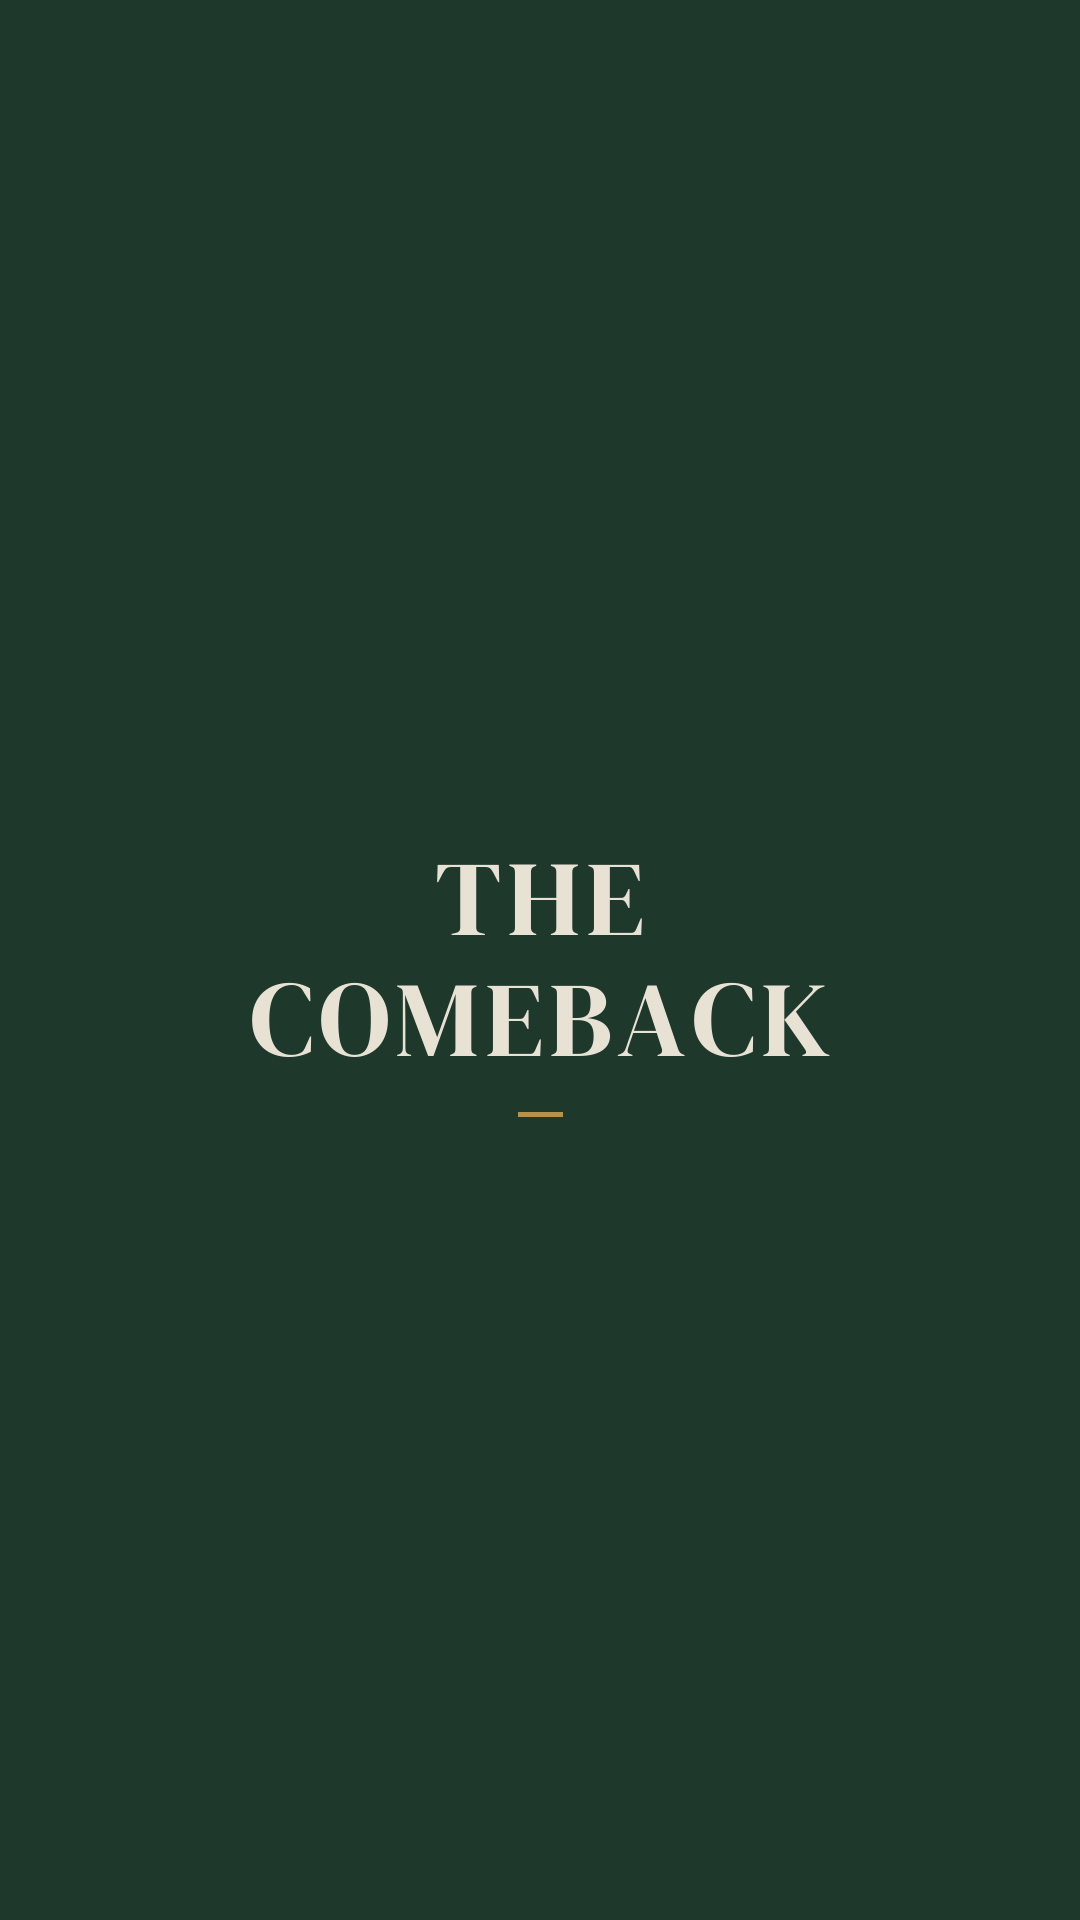
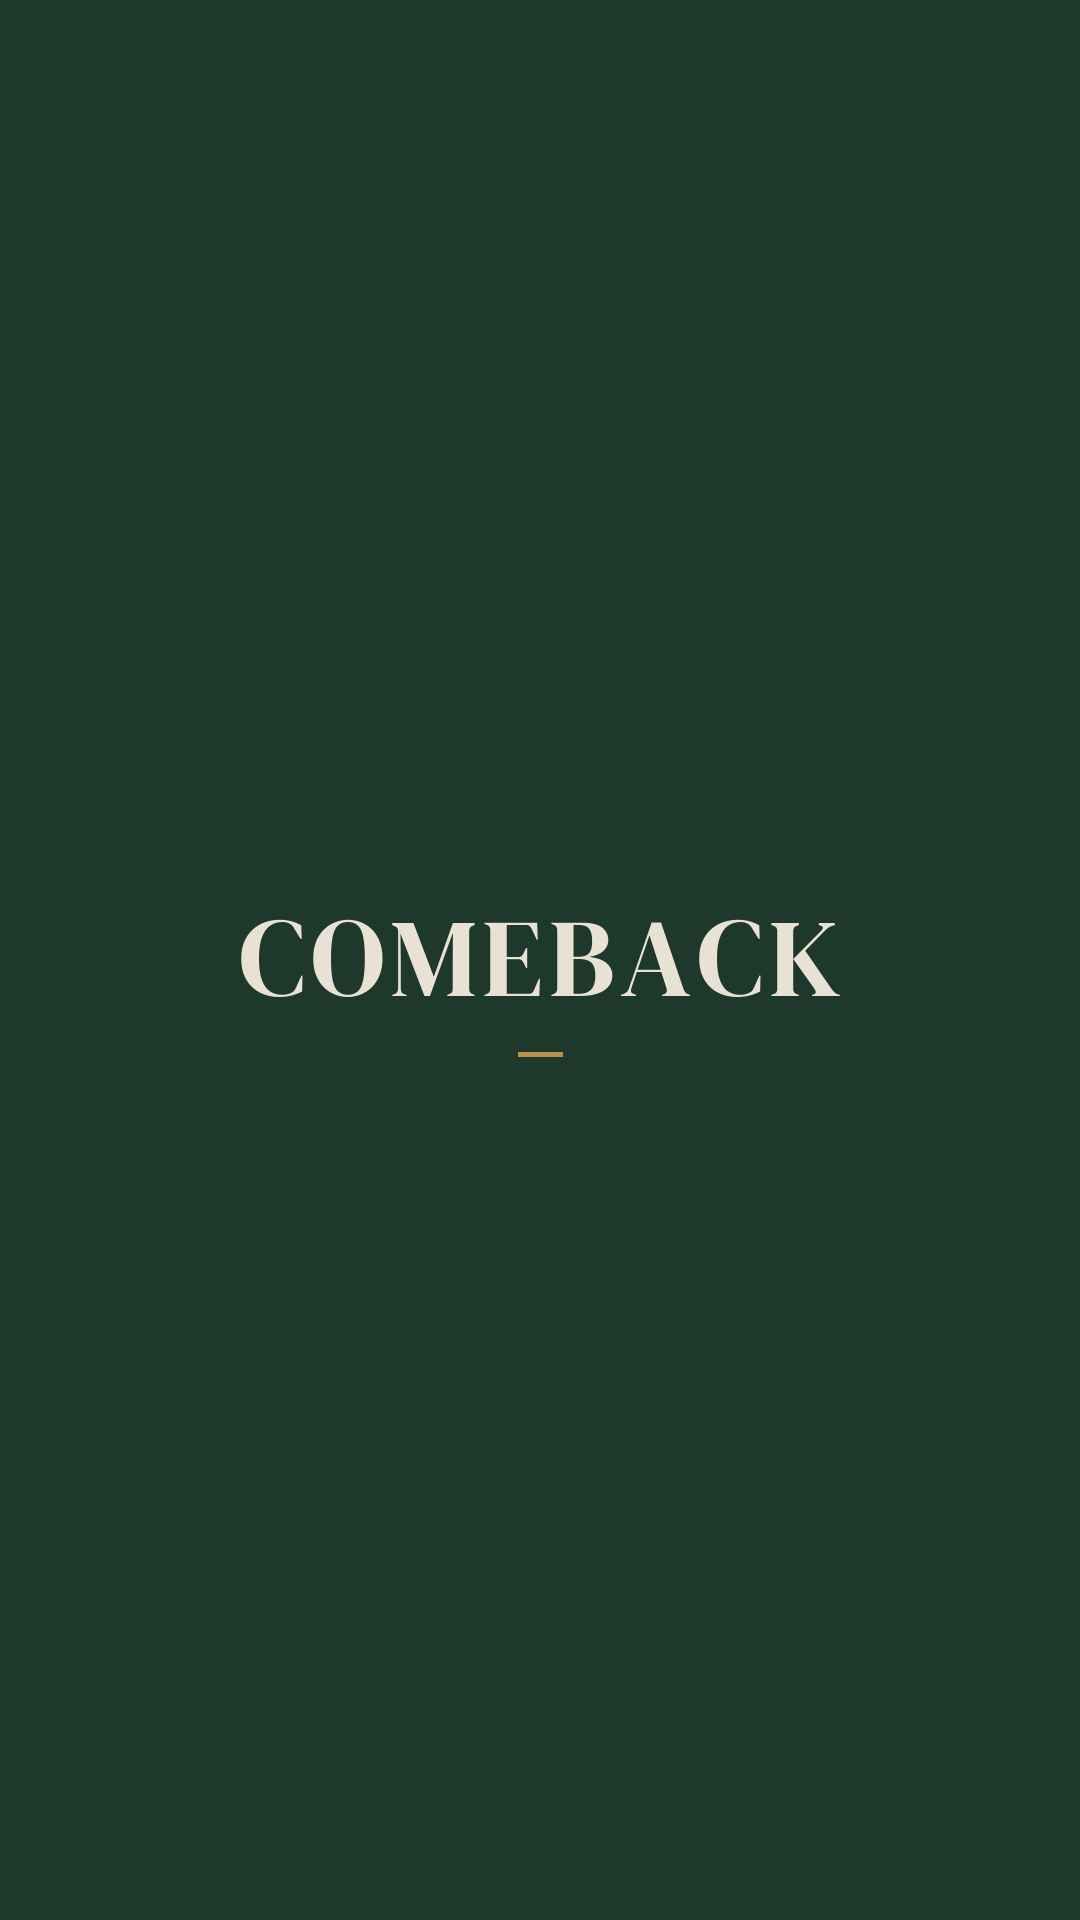
One-line label set, drop Numeral, shared type size per direction
- Labels are now 8 characters or fewer: START, DRILLS, COMEBACK, PRO SHOP,
  WELLNESS, OFF DUTY. Instagram truncates the highlight name under the
  circle, and the name carries the meaning, so the cover no longer needs
  the long form. OFF DUTY vs OFF COURSE is one constant pending Emma.
- Numeral direction removed: the highlight-order mechanic makes numbered
  covers fragile, independent of how they render.
- Fitter prefers one line at any size over two lines; the wrap fallback
  stays but prints a note if it ever fires.
- Each direction renders all six covers at one shared type size, set by
  the longest label, so the set reads as one system.
- Crest badge structure heavier: thicker rings, larger arc text.
- Stale PNGs cleared per direction before writing.

Claude-Session: https://claude.ai/code/session_015h8fAH1yrxZyEjF29WHW7Y

Changed region(s): [[0.2139, 0.4375, 0.7639, 0.5625]]

diff --git a/src/covers.py b/src/covers.py
@@ -20,13 +20,17 @@ CX, CY, R = 540, 960, 320            # the safe circle Instagram keeps
 CREAM, GOLD, CHARCOAL = "#F5F1E8", "#B8924A", "#1A1A1A"
 FOREST, BONE = "#1F382C", "#E8E2D5"
 
+# Instagram truncates the name under the cover at roughly 9-15 characters, so
+# labels are 8 characters or fewer and each fits on one line.
+OFF_LABEL = "OFF DUTY"        # Emma's call: "OFF COURSE" is the better pun,
+                              # "OFF DUTY" is safer against truncation.
 COVERS = [
-    ("01_StartHere", "START HERE"),
+    ("01_Start", "START"),
     ("02_Drills", "DRILLS"),
-    ("03_Comeback", "THE COMEBACK"),
+    ("03_Comeback", "COMEBACK"),
     ("04_ProShop", "PRO SHOP"),
     ("05_Wellness", "WELLNESS"),
-    ("06_OffCourse", "OFF COURSE"),
+    ("06_Off", OFF_LABEL),
 ]
 
 # ---------------------------------------------------------------- fonts
@@ -86,23 +90,39 @@ def chord_halfwidth(r, y0, y1, cy=CY):
     return math.sqrt(max(r * r - dy * dy, 0))
 
 
+# Per-direction common size. main() renders each direction twice: once to
+# learn the size every label fits at, then again capped at the smallest so all
+# six share one type size. Cohesion beats filling the circle.
+SIZE_CAP = None
+CHOSEN = []
+
+
 def fit(label, fontfn, tracking, r_inner, cy=CY, leading=1.3,
         max_size=150, min_size=30, margin=18):
     """Largest size whose lines each fit the circle's chord at their own height.
 
-    Tries one line first; falls back to two. Never hard-codes a size per word.
+    One line is preferred at any size; two lines are a fallback only when the
+    label cannot fit on one line even at min_size. Never hard-codes a size per word.
     """
-    for size in range(max_size, min_size - 1, -2):
-        f = fontfn(size)
-        gap = size * tracking
-        for lines in ([label], wrap(label)):
-            if not lines:
-                continue
-            rows = layout(lines, f, size, leading, cy)
-            ok = all(tracked_width(f, r["text"], gap) <= 2 * (chord_halfwidth(r_inner, r["y0"], r["y1"], cy) - margin)
-                     for r in rows)
-            if ok:
-                return f, gap, rows
+    def fits(lines, f, gap):
+        rows = layout(lines, f, f.size, leading, cy)
+        return rows if all(
+            tracked_width(f, r["text"], gap) <= 2 * (chord_halfwidth(r_inner, r["y0"], r["y1"], cy) - margin)
+            for r in rows) else None
+
+    if SIZE_CAP is not None:
+        max_size = min(max_size, SIZE_CAP)
+    for lines in ([label], wrap(label)):
+        if not lines:
+            continue
+        for size in range(max_size, min_size - 1, -2):
+            f = fontfn(size)
+            rows = fits(lines, f, size * tracking)
+            if rows:
+                if len(lines) == 2:
+                    print(f"  note: {label!r} needed two lines")
+                CHOSEN.append(size)
+                return f, size * tracking, rows
     raise ValueError(f"{label!r} does not fit inside r={r_inner}")
 
 
@@ -155,7 +175,7 @@ def arc_span(f, text, radius, gap_frac=0.35):
 def hairline(label):
     """Serif word alone, gold hairline rules above and below. Core palette."""
     img = Image.new("RGB", (W, H), CHARCOAL); d = ImageDraw.Draw(img)
-    f, gap, rows = fit(label, lambda s: font("playfair", s, 600), 0.10, R, max_size=130)
+    f, gap, rows = fit(label, lambda s: font("playfair", s, 600), 0.10, R, max_size=200)
     y0, y1 = place(d, rows, f, gap, CREAM)
     rule(d, y0 - 60, 160, GOLD); rule(d, y1 + 58, 160, GOLD)
     return img
@@ -165,7 +185,7 @@ def keyline(label):
     """Charcoal serif inside a thin gold keyline ring on cream. Core palette."""
     img = Image.new("RGB", (W, H), CREAM); d = ImageDraw.Draw(img)
     ring(d, 296, 3, GOLD)
-    f, gap, rows = fit(label, lambda s: font("playfair", s, 800), 0.06, 270, max_size=130)
+    f, gap, rows = fit(label, lambda s: font("playfair", s, 800), 0.06, 270, max_size=200)
     place(d, rows, f, gap, CHARCOAL)
     return img
 
@@ -175,23 +195,7 @@ def disc(label):
     img = Image.new("RGB", (W, H), CREAM); d = ImageDraw.Draw(img)
     r = 292
     d.ellipse([CX - r, CY - r, CX + r, CY + r], fill=CHARCOAL)
-    f, gap, rows = fit(label, lambda s: font("montserrat", s, 600), 0.12, r, max_size=130)
-    place(d, rows, f, gap, CREAM)
-    return img
-
-
-def numeral(label, idx):
-    """Large serif numeral in gold, small tracked label beneath. Core palette.
-
-    Fragile by design: Instagram re-sorts highlights on every edit (CLAUDE.md).
-    """
-    img = Image.new("RGB", (W, H), CHARCOAL); d = ImageDraw.Draw(img)
-    nf = font("playfair", 250, 400)
-    num = f"{idx:02d}"
-    nb = nf.getbbox(num)
-    nx, ny = CX - (nb[0] + nb[2]) / 2, CY - 80 - (nb[1] + nb[3]) / 2
-    d.text((nx, ny), num, font=nf, fill=GOLD)
-    f, gap, rows = fit(label, lambda s: font("montserrat", s, 600), 0.16, R, cy=CY + 140, max_size=64)
+    f, gap, rows = fit(label, lambda s: font("montserrat", s, 600), 0.12, r, max_size=200)
     place(d, rows, f, gap, CREAM)
     return img
 
@@ -200,13 +204,13 @@ def crest(label):
     """Badge: double gold ring, arched name top and place bottom, serif label centre.
     Heritage palette."""
     img = Image.new("RGB", (W, H), FOREST); d = ImageDraw.Draw(img)
-    ring(d, 304, 2, GOLD); ring(d, 292, 2, GOLD)
-    af = font("montserrat", 23, 600)
+    ring(d, 306, 4, GOLD); ring(d, 290, 3, GOLD)
+    af = font("montserrat", 27, 600)
     for text, is_top in (("EMMA TEEPLES GOLF", True), ("REDDING · CALIFORNIA", False)):
         step, sweep = arc_span(af, text, 258)
         start = -sweep / 2 if is_top else 180 + sweep / 2
         arched(img, text, af, 258, BONE, start, step if is_top else -step, top=is_top)
-    f, gap, rows = fit(label, lambda s: font("dmserif", s), 0.03, 222, max_size=120)
+    f, gap, rows = fit(label, lambda s: font("dmserif", s), 0.03, 212, max_size=150)
     place(d, rows, f, gap, BONE)
     return img
 
@@ -214,7 +218,7 @@ def crest(label):
 def sans(label):
     """Widely letterspaced gold sans on charcoal, no serif, no ornament. Core palette."""
     img = Image.new("RGB", (W, H), CHARCOAL); d = ImageDraw.Draw(img)
-    f, gap, rows = fit(label, lambda s: font("montserrat", s, 600), 0.22, R, max_size=120)
+    f, gap, rows = fit(label, lambda s: font("montserrat", s, 600), 0.22, R, max_size=200)
     place(d, rows, f, gap, GOLD)
     return img
 
@@ -223,7 +227,7 @@ def bleed(label):
     """Full-bleed forest ground, big bone serif at maximum scale, one gold mark.
     Heritage palette."""
     img = Image.new("RGB", (W, H), FOREST); d = ImageDraw.Draw(img)
-    f, gap, rows = fit(label, lambda s: font("dmserif", s), 0.05, R, leading=1.15, max_size=170, margin=14)
+    f, gap, rows = fit(label, lambda s: font("dmserif", s), 0.05, R, leading=1.15, max_size=220, margin=14)
     y0, y1 = place(d, rows, f, gap, BONE)
     rule(d, y1 + 56, 44, GOLD, 4)
     return img
@@ -233,7 +237,6 @@ DIRECTIONS = {
     "Hairline": lambda label, i: hairline(label),
     "Keyline":  lambda label, i: keyline(label),
     "Disc":     lambda label, i: disc(label),
-    "Numeral":  lambda label, i: numeral(label, i),
     "Crest":    lambda label, i: crest(label),
     "Sans":     lambda label, i: sans(label),
     "Bleed":    lambda label, i: bleed(label),
@@ -241,12 +244,22 @@ DIRECTIONS = {
 
 
 def main():
+    global SIZE_CAP
     for name, render in DIRECTIONS.items():
         out = ROOT / "covers" / name
         out.mkdir(parents=True, exist_ok=True)
+        for stale in out.glob("*.png"):
+            stale.unlink()                      # labels or filenames may have changed
+
+        SIZE_CAP = None; CHOSEN.clear()
+        for i, (fname, label) in enumerate(COVERS, start=1):
+            render(label, i)                    # measure only
+        SIZE_CAP = min(CHOSEN)
+
         for i, (fname, label) in enumerate(COVERS, start=1):
             render(label, i).save(out / f"{fname}.png")
-        print(f"{name:9s} {len(COVERS)} covers -> {out.relative_to(ROOT)}")
+        print(f"{name:9s} {len(COVERS)} covers at {SIZE_CAP} px -> {out.relative_to(ROOT)}")
+    SIZE_CAP = None
 
 
 if __name__ == "__main__":

diff --git a/CLAUDE.md b/CLAUDE.md
@@ -64,16 +64,22 @@ Two PIL gotchas that will silently ruin output:
 Canvas **1080 × 1920 PNG**. Instagram crops to a circle, so all artwork must sit inside a
 **640 px diameter circle centered at (540, 960)**. The rest is flat background.
 
-The six covers, in profile order:
+The six covers, in profile order. Numbers are file order only and never appear in the
+artwork (see the highlight-order mechanic below):
 
 ```
-01 START HERE   02 DRILLS      03 THE COMEBACK
-04 PRO SHOP     05 WELLNESS    06 OFF COURSE
+01 START      02 DRILLS     03 COMEBACK
+04 PRO SHOP   05 WELLNESS   06 OFF DUTY
 ```
 
-Long labels ("THE COMEBACK", "OFF COURSE") wrap to two lines and are far wider than
-"DRILLS". Auto-fit by measuring rendered width and stepping the size down. Never
-hard-code a size per word.
+Instagram truncates the highlight name under the circle at roughly 9-15 characters
+depending on device, so every label is 8 characters or fewer and sits on one line.
+Auto-fit by measuring rendered width against the safe circle's chord at the line's
+height and stepping the size down. Never hard-code a size per word. Keep the two-line
+fallback in the fitter, but no current label should need it.
+
+"OFF DUTY" versus "OFF COURSE" is Emma's call: the pun is better writing, "OFF DUTY" is
+safer against truncation. It is a single constant in `src/covers.py`.
 
 ### The 68 px test — distinctiveness and cohesion, not legibility
 

diff --git a/README.md b/README.md
@@ -11,7 +11,7 @@ language, the technical gotchas, and the legibility standard.
 ```
 brand/            palette, type specs, logo files
 covers/           Instagram highlight covers, one folder per direction
-  <Direction>/    01_StartHere.png … 06_OffCourse.png
+  <Direction>/    01_Start.png … 06_Off.png
 src/              generator scripts
 build/            contact sheets and previews (not committed)
 docs/             one-page PDFs and picker sheets
